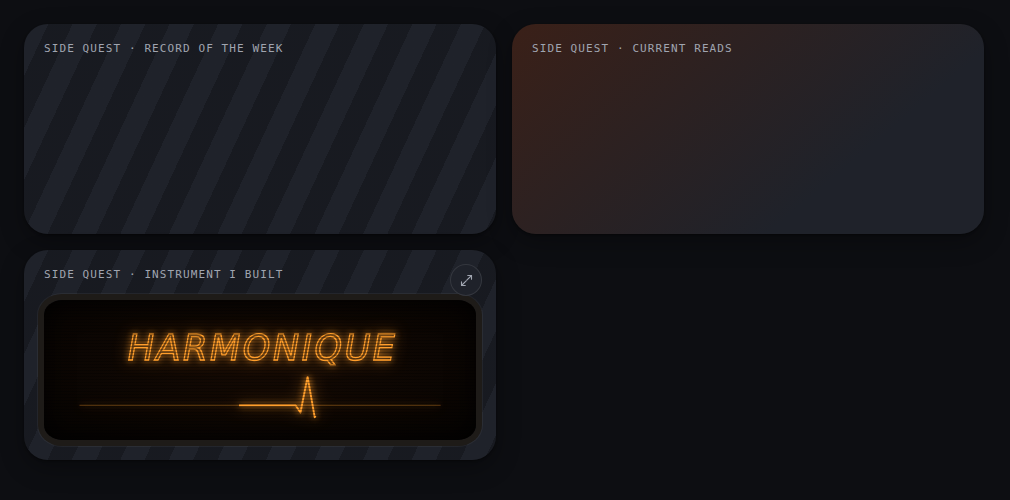
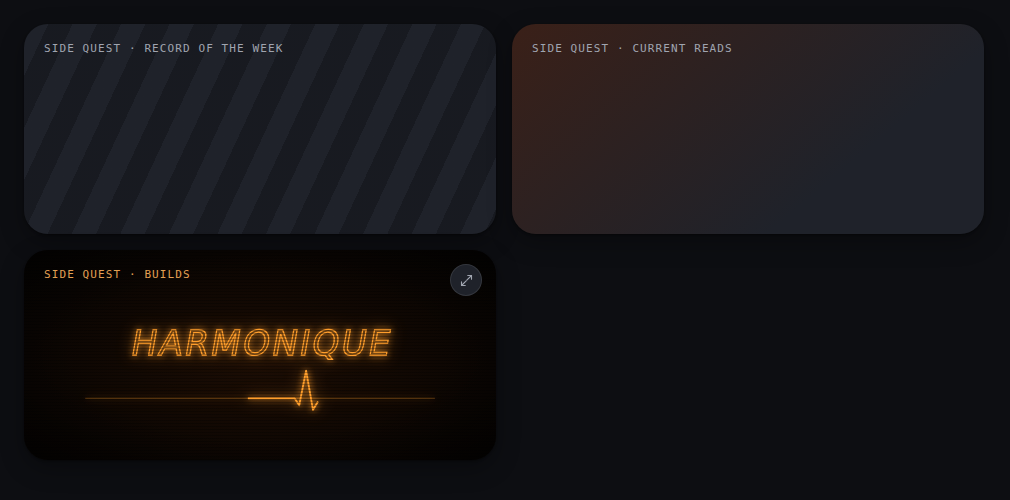
Portfolio tile: full-bleed screen, 'Side quest · Builds'
Claude-Session: https://claude.ai/code/session_01EPt4w5Wi5jWjA7WJpNa8Up

Changed region(s): [[0.0, 0.48, 0.4911, 0.93], [0.0921, 0.63, 0.4297, 0.84]]

diff --git a/portfolio/tile-snippet.html b/portfolio/tile-snippet.html
@@ -7,9 +7,9 @@
 -->
 
 <!-- 1) the tile -->
-<button class="tile tile--w2 visual visual--c harmonique-tile" id="harmonique-tile" data-cat="side"
-        data-tip="Harmonique|Play the chord instrument I built" aria-label="Side quest · Instrument I built. Open Harmonique and play it">
-  <span>Side quest · Instrument I built</span>
+<button class="tile tile--w2 visual harmonique-tile" id="harmonique-tile" data-cat="side"
+        data-tip="Harmonique|Play the chord instrument I built" aria-label="Side quest · Builds. Open Harmonique and play it">
+  <span>Side quest · Builds</span>
   <div class="hq-screen" aria-hidden="true">
     <svg class="hq-svg" viewBox="0 0 320 104">
       <text class="hq-word" x="160" y="44" text-anchor="middle">HARMONIQUE</text>
@@ -23,18 +23,19 @@
 <!-- 2) styles -->
 <link rel="stylesheet" href="https://fonts.googleapis.com/css2?family=Righteous&display=swap">
 <style>
+  /* the whole tile is the screen: black glass, scanlines, vignette; the label sits on top */
+  .harmonique-tile { background: radial-gradient(ellipse at 50% 55%, #1C0D04 0%, #0A0502 70%, #050302 100%); }
   .harmonique-tile .hq-screen {
-    position: absolute; left: 20px; right: 20px; top: 50px; bottom: 20px;
-    border-radius: 18px / 15px; overflow: hidden;
-    background: radial-gradient(ellipse at 50% 45%, #160A03 0%, #050302 100%);
-    box-shadow: inset 0 0 28px rgba(0,0,0,.9), 0 0 0 6px #1E1B18, 0 0 0 7px rgba(255,255,255,.05);
-    display: grid; place-items: center; transition: transform .6s cubic-bezier(.2,.7,.2,1);
+    position: absolute; inset: 0; display: grid; place-items: center; padding-top: 18px;
+    transition: transform .6s cubic-bezier(.2,.7,.2,1);
   }
-  .harmonique-tile .hq-screen::after { /* scanlines */
+  .harmonique-tile .hq-screen::after { /* scanlines + vignette */
     content: ""; position: absolute; inset: 0; pointer-events: none;
-    background: repeating-linear-gradient(0deg, rgba(0,0,0,.28) 0 1px, transparent 1px 3px);
+    background: repeating-linear-gradient(0deg, rgba(0,0,0,.28) 0 1px, transparent 1px 3px),
+                radial-gradient(ellipse at center, transparent 55%, rgba(0,0,0,.6) 100%);
   }
-  .harmonique-tile .hq-svg { width: 88%; height: auto; overflow: visible;
+  .harmonique-tile > span { z-index: 2; color: color-mix(in srgb, #FF9E2C 70%, var(--ink-2, #A0A5B0)); }
+  .harmonique-tile .hq-svg { width: 78%; height: auto; overflow: visible;
     filter: drop-shadow(0 0 3px #FF9E2C) drop-shadow(0 0 8px rgba(255,158,44,.45)); }
   .harmonique-tile .hq-word { font: 400 30px/1 'Righteous', system-ui, sans-serif; letter-spacing: .06em;
     fill: none; stroke: #FF9E2C; stroke-width: 1.1; transform: skewX(-10deg); transform-origin: 160px 44px; }
